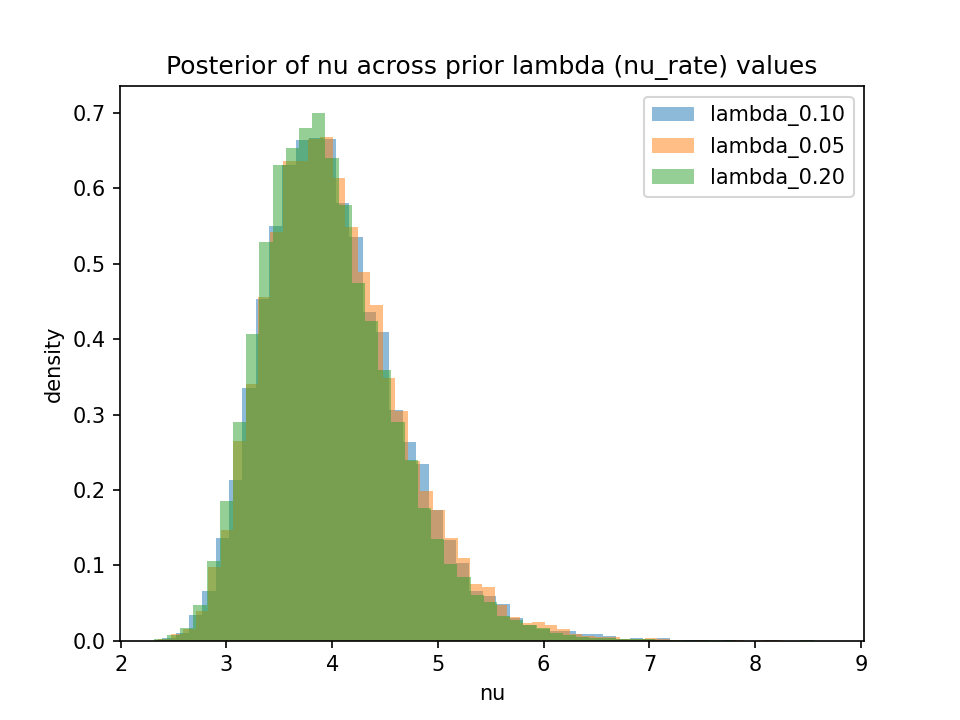
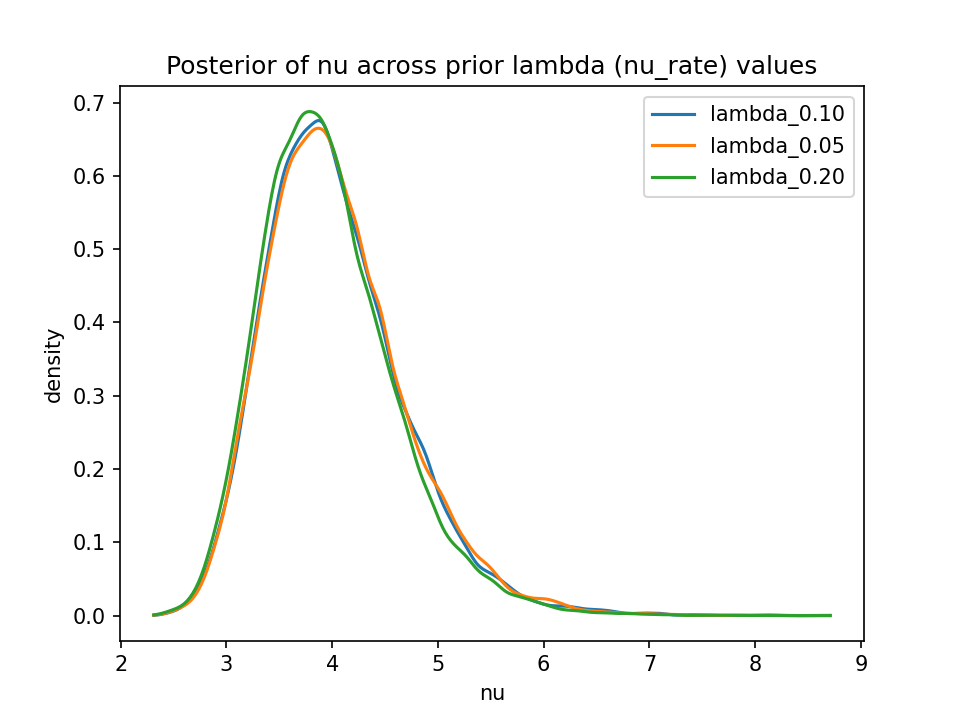
style: plot nu posterior comparison as KDE curves instead of overlapping histograms

diff --git a/src/run_mcmc.py b/src/run_mcmc.py
@@ -36,6 +36,7 @@ from pathlib import Path
 import numpy as np
 import pandas as pd
 import matplotlib
+from scipy.stats import gaussian_kde
 matplotlib.use("Agg")
 import matplotlib.pyplot as plt
 
@@ -176,9 +177,13 @@ if __name__ == "__main__":
         nu_pooled_draws[label] = np.concatenate(param_chains["nu"])
 
     # 5. Compare p(nu | data, lambda) across the three lambda values ---------
+    all_nu = np.concatenate(list(nu_pooled_draws.values()))
+    x_grid = np.linspace(all_nu.min(), all_nu.max(), 500)
+
     plt.figure()
     for _, label in experiments:
-        plt.hist(nu_pooled_draws[label], bins=50, density=True, alpha=0.5, label=label)
+        density = gaussian_kde(nu_pooled_draws[label])(x_grid)
+        plt.plot(x_grid, density, label=label)
     plt.xlabel("nu")
     plt.ylabel("density")
     plt.title("Posterior of nu across prior lambda (nu_rate) values")
